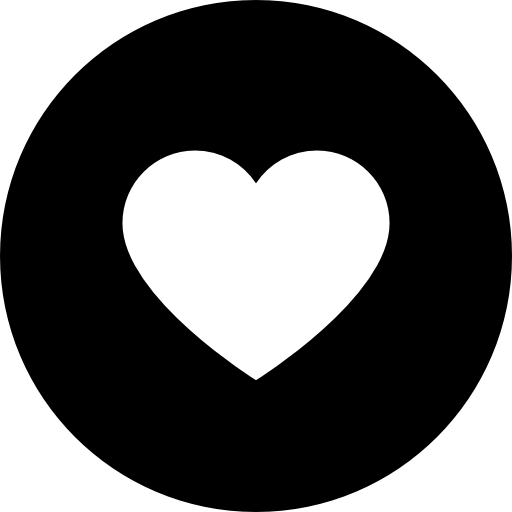
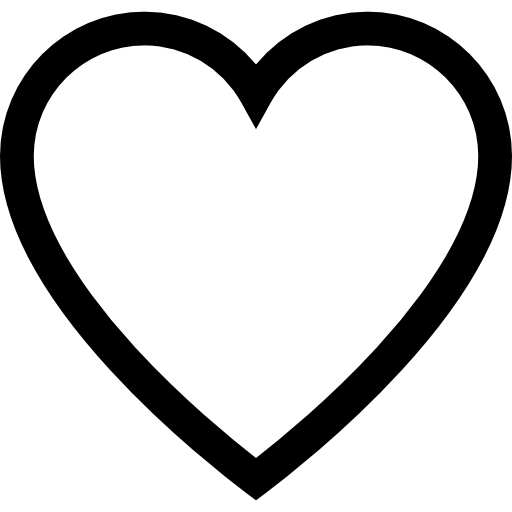
wishlist

diff --git a/resources/sass/webshop-webflow.scss b/resources/sass/webshop-webflow.scss
@@ -1466,10 +1466,9 @@
 .image-13 {
   position: absolute;
   left: auto;
-  top: 0%;
   right: 0%;
-  bottom: auto;
-  padding-top: 10px;
+  bottom: 10%;
+  padding-top: 15px;
   padding-right: 10px;
 }
 

diff --git a/resources/views/products/index.blade.php b/resources/views/products/index.blade.php
@@ -70,19 +70,42 @@
         <div class="w-layout-grid productpagegrid">
 
             @foreach ($products as $product)
-            <a href="{{ route ('products.show', $product) }}">
             <div class="productcard">
+                <a href="{{ route ('products.show', $product) }}">
                 <div class="productimage">
                     <img src="{{ asset($product->images->first()->img_path) }}"
                         loading="lazy" sizes="(max-width: 479px) 89vw, (max-width: 767px) 67vw, 70vw"
                         srcset="{{ asset($product->images->first()->img_path) }}"
                         alt="" class="image-11" />
-                    <img class="wishlist" p_id="{{ $product->id }}" src="images/favorite.png"
-                        loading="lazy" width="41" alt="" class="image-13" />
                 </div>
+                </a>
                 <div class="productinformation">
+                    <a href="{{ route ('products.show', $product) }}">
                     <h4 class="productcardtitle">{{ $product->brand->name }} {{ $product->brand->line }} {{ $product->name }}</h4>
                     <div>{{ $product->time_period->name }}</div>
+                    </a>
+                    @auth
+                    @if ($wishlist)
+                    @foreach ($wishlist as $favorite)
+                        @if($product->id === $favorite->product_id)
+                            <div id="{{ $product->id }}" class="remove-from-wishlist" w_id="{{ $favorite->id }}">
+                            <img src="images/passion.png"
+                        loading="lazy" width="41" alt="" class="image-13" />
+                            </div>
+                        @else
+                            <div id="{{ $product->id }}" class="add-to-wishlist">
+                            <img src="images/favorite.png"
+                        loading="lazy" width="41" alt="" class="image-13" />
+                            </div>
+                        @endif
+                    @endforeach
+                    @else
+                        <div id="{{ $product->id }}" class="add-to-wishlist">
+                            <img src="images/favorite.png"
+                        loading="lazy" width="41" alt="" class="image-13" />
+                            </div>
+                    @endif
+                    @endauth
                     <h4 class="productcardtitle price">€ {{ $product->price }}</h4>
                 </div>
             </div>
@@ -116,24 +139,47 @@
 </script>
 @endsection
 
-{{-- @push('scripts')
+@push('scripts')
     <script>
-        $(document).on('click', '.wishlist', function (event) {
-            let product_id = $(this).attr('p_id');
+        $(document).on('click', '.add-to-wishlist', function (event) {
+            let product_id = $(this).attr('id');
 
             axios({
                 method: 'POST',
-                url: '{{ route("wishlist") }}'
+                url: '{{ route("wishlist.store") }}',
                 data: {
                     product_id: product_id
                 }
             }).then(function (response) {
                 if (response.data.success) {
-                   
+                    $('#' + product_id).removeClass('add-to-wishlist').addClass('remove-from-wishlist').attr('w_id', response.data.w_id)
+                    $('#' + product_id).html(response.data.html).replace()
                 }
             }).catch(function (error) {
             
             })
         })
     </script>
-@endpush --}}
+
+    <script>
+        $(document).on('click', '.remove-from-wishlist', function (event) {
+            let wishlist_id = $(this).attr('w_id');
+            let product_id = $(this).attr('id');
+
+            axios({
+                method: 'POST',
+                url: '{{ route("wishlist.delete") }}',
+                data: {
+                    w_id: wishlist_id,
+                }
+            }).then(function (response) {
+                if (response.data.success) {
+                    $('#' + product_id).removeClass('remove-from-wishlist').addClass('add-to-wishlist').removeAttr('w_id')
+                    $('#' + product_id).html(response.data.html).replace()
+                }
+            }).catch(function (error) {
+            
+            })
+        })
+    </script>
+@endpush

diff --git a/app/Http/Controllers/ProfileController.php b/app/Http/Controllers/ProfileController.php
@@ -4,6 +4,7 @@ namespace App\Http\Controllers;
 
 use App\Models\Category;
 use App\Models\User;
+use App\Models\Wishlist;
 use Exception;
 use Illuminate\Http\Request;
 use Illuminate\Support\Facades\Auth;
@@ -126,5 +127,66 @@ class ProfileController extends Controller
     public function wishlist()
     {
 
+    }
+
+     /**
+     * Add item to wishlist.
+     *
+     * @param  \Illuminate\Http\Request  $request
+     * @return \Illuminate\Http\Response
+     */
+
+    public function store (Request $request)
+    {
+        try {
+            $userId = Auth::id();
+            $productId = $request->product_id;
+
+            $wishlist = Wishlist::create([
+                            'user_id'       => $userId,
+                            'product_id'    => $productId,
+                        ]);
+
+            $html = '<img src="images/passion.png" loading="lazy" width="41" alt="" class="image-13" />';
+
+            return response()->json([
+                'success'   => true,
+                'html'      => $html,
+                'w_id'        => $wishlist->id,
+            ]);
+        } catch(Exception $e) {
+            return response()->json([
+                'success'   => false,
+                'message'   => $e->getMessage(),
+            ]);
+        }
+    }
+
+    /**
+     * remove item from wishlist.
+     *
+     * @param  \Illuminate\Http\Request  $request
+     * @return \Illuminate\Http\Response
+     */
+
+    public function delete (Request $request)
+    {
+        try {
+            $wishlistId = $request->w_id;
+
+            Wishlist::where('id', $wishlistId)->delete();
+
+            $html = '<img src="images/favorite.png" loading="lazy" width="41" alt="" class="image-13" />';
+
+            return response()->json([
+                'success'       => true,
+                'html'          => $html,
+            ]);
+        } catch(Exception $e) {
+            return response()->json([
+                'success'   => false,
+                'message'   => $e->getMessage(),
+            ]);
+        }
     }
 }

diff --git a/routes/web.php b/routes/web.php
@@ -31,8 +31,6 @@ Route::get('search', [ProductController::class, 'search'])->name('search');
 Route::resource('products', ProductController::class, ['parameters' => ['products' => 'product:slug']]);
 Route::resource('categories', CategoryController::class, ['parameters' => ['categories' => 'category:name']]);
 
-Route::post('wishlist', [ProductController::class, 'wishlist'])->name('wishlist')->middleware('verified');
-
 Route::get('cart', [CartController::class, 'index'])->name('cart');
 Route::post('cart', [CartController::class, 'store'])->name('cart.store');
 Route::post('cart/update', [CartController::class, 'update'])->name('cart.update');
@@ -41,12 +39,16 @@ Route::post('cart/delete', [CartController::class, 'delete'])->name('cart.delete
 Route::resource('orders', OrderController::class)->middleware('verified');
 
 Route::resource('user', UserController::class);
+
+Route::post('wishlist', [ProfileController::class, 'store'])->name('wishlist.store');
+Route::post('delete', [ProfileController::class, 'delete'])->name('wishlist.delete');
+
 Route::get('profile', [ProfileController::class, 'index'])->name('profile')->middleware('verified');
 Route::post('profile/info', [ProfileController::class, 'info'])->name('profile.info');
 Route::post('profile/orders', [ProfileController::class, 'orders'])->name('profile.orders');
 Route::post('profile/wishlist', [ProfileController::class. 'wishlist'])->name('profile.wishlist');
 
 
-Route::get('/support', function () {
-    return view('/support/supportpage');
-});
+// Route::get('/support', function () {
+//     return view('/support/supportpage');
+// });

diff --git a/app/Http/Controllers/ProductController.php b/app/Http/Controllers/ProductController.php
@@ -6,7 +6,7 @@ use App\Models\Brand;
 use App\Models\Category;
 use App\Models\Product;
 use App\Models\TimePeriod;
-use App\Models\Wishlist;
+use App\Models\User;
 use Illuminate\Http\Request;
 use Illuminate\Support\Facades\Auth;
 use Illuminate\Support\Facades\Session;
@@ -70,12 +70,25 @@ class ProductController extends Controller
                 ->sortByDesc('price');
         }
 
+        if (Auth::id() !== NULL) {
+            $userId = Auth::id();
+            $wishlist = User::findOrFail($userId)->wishlist;
+
+            if ($wishlist->isEmpty()) {
+                $wishlist = false;
+            } else {
+                $wishlist = $wishlist;
+            }
+        }  else {
+            $wishlist = false;
+        }
+
         return view('products.index', [
             'products'      => $products,
             'brands'        => Brand::all(), 
             'categories'    => Category::all()->whereNotin('id', 1),
+            'wishlist'      => $wishlist,
         ]);
-
     }
 
     /**
@@ -158,15 +171,4 @@ class ProductController extends Controller
     {
         //
     }
-
-//     public function wishlist ()
-//     {
-//         $userId = Auth::id();
-//         // $productId = ;
-
-//         Wishlist::create([
-//             'user_id'       => $userId,
-//             'product_id'    => '',
-//         ])
-//     }
 }

diff --git a/app/Models/Product.php b/app/Models/Product.php
@@ -7,11 +7,9 @@ use Illuminate\Database\Eloquent\Model;
 use Illuminate\Database\Eloquent\SoftDeletes;
 use Sqits\UserStamps\Concerns\HasUserStamps;
 
-use Laravel\Scout\Searchable;
-
 class Product extends Model
 {
-    use HasFactory, HasUserStamps, SoftDeletes, Searchable;
+    use HasFactory, HasUserStamps, SoftDeletes;
 
     protected $table = 'products';
 
@@ -41,9 +39,9 @@ class Product extends Model
         return $this->belongsToMany(Category::class, 'product_categories');
     }
 
-    public function userWishlist()
+    public function wishlist()
     {
-        return $this->belongsToMany(User::class, 'wishlist');
+        return $this->hasMany(Wishlist::class, 'product_id');
     }
 
     public function images()

diff --git a/app/Models/User.php b/app/Models/User.php
@@ -45,8 +45,8 @@ class User extends Authenticatable implements MustVerifyEmail
         return $this->hasMany(Order::class, 'user_id');
     }
 
-     public function productWishlist()
+    public function wishlist()
     {
-        return $this->belongsToMany(Product::class, 'wishlist');
+        return $this->hasMany(Wishlist::class, 'user_id');
     }
 }

diff --git a/app/Models/Wishlist.php b/app/Models/Wishlist.php
@@ -16,4 +16,14 @@ class Wishlist extends Model
     protected $guarded = [
         'id'
     ];
+
+    public function product()
+    {
+        return $this->belongsTo(Product::class, 'product_id');
+    }
+
+    public function user()
+    {
+        return $this->belongsTo(User::class, 'user_id');
+    }
 }
